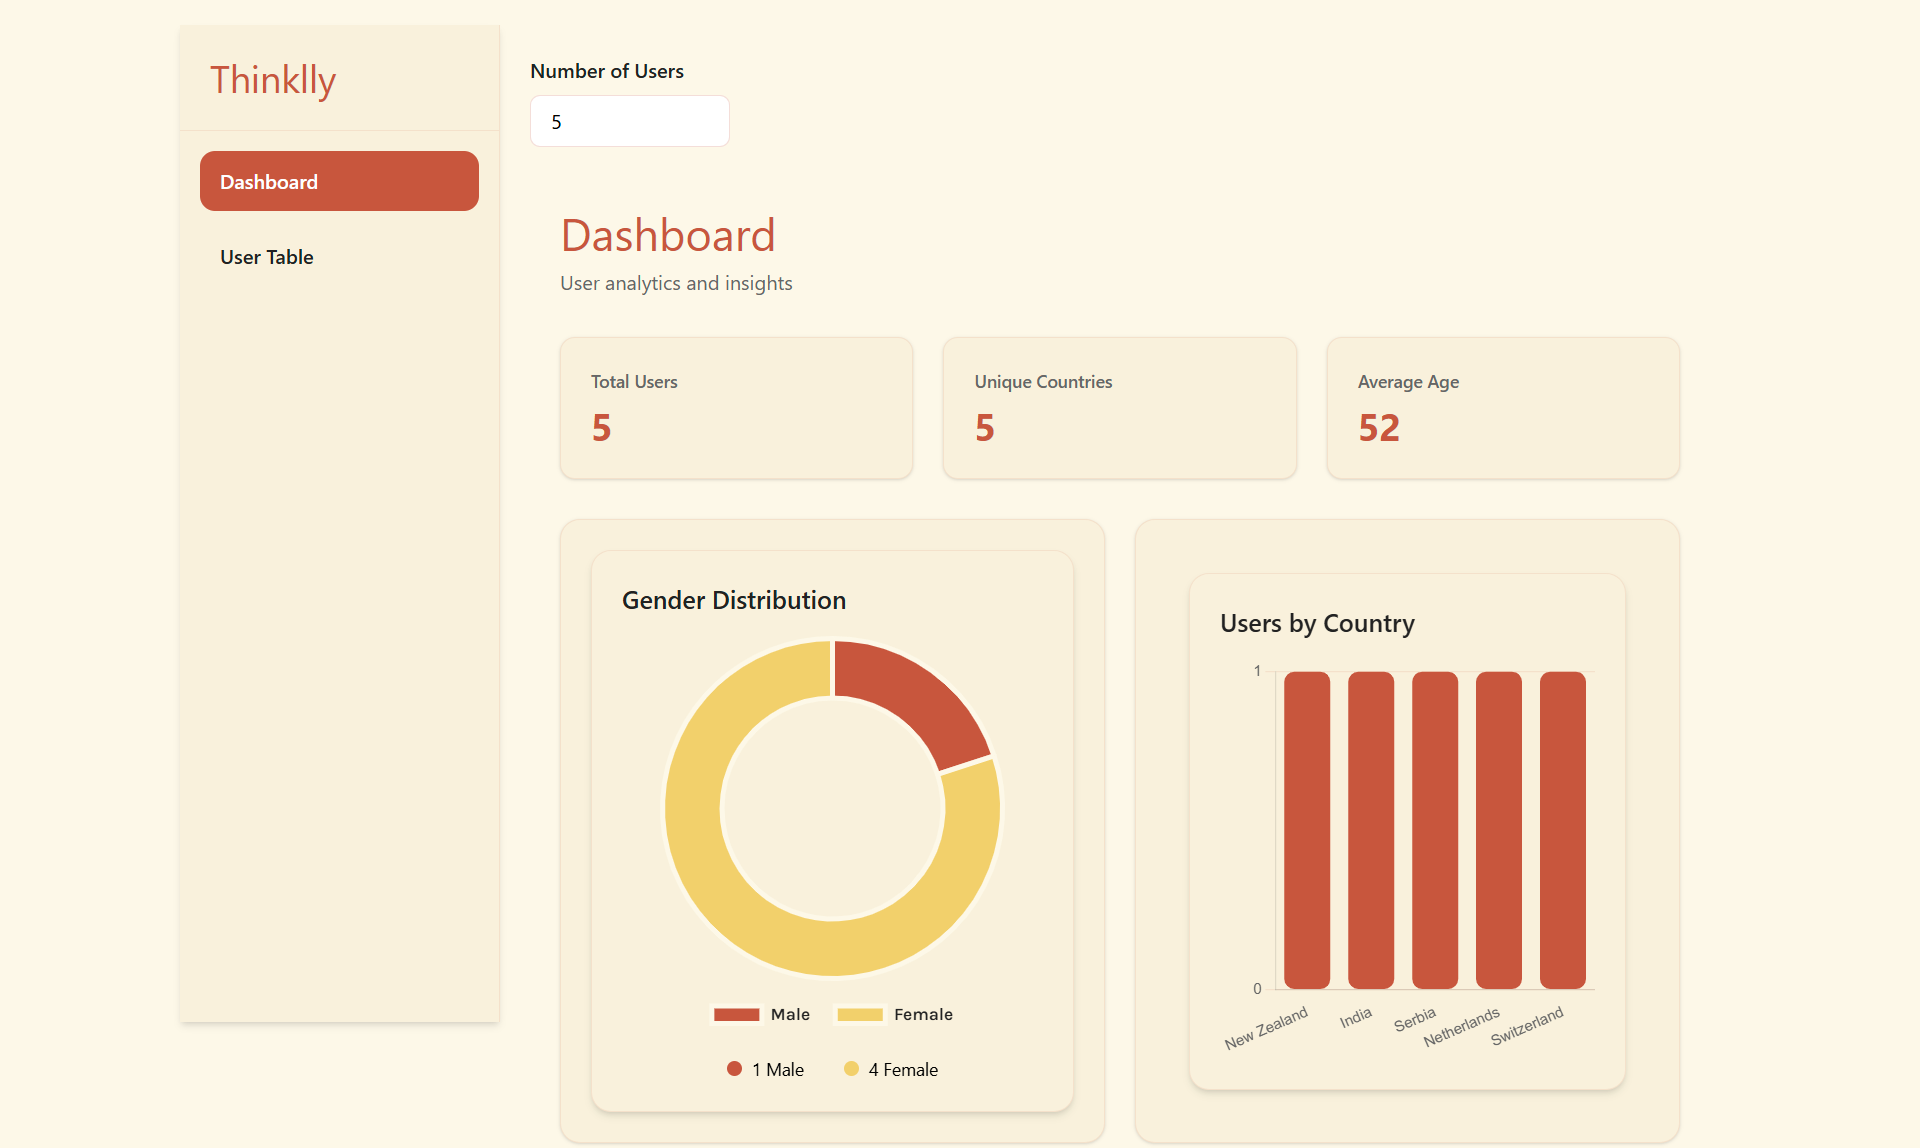
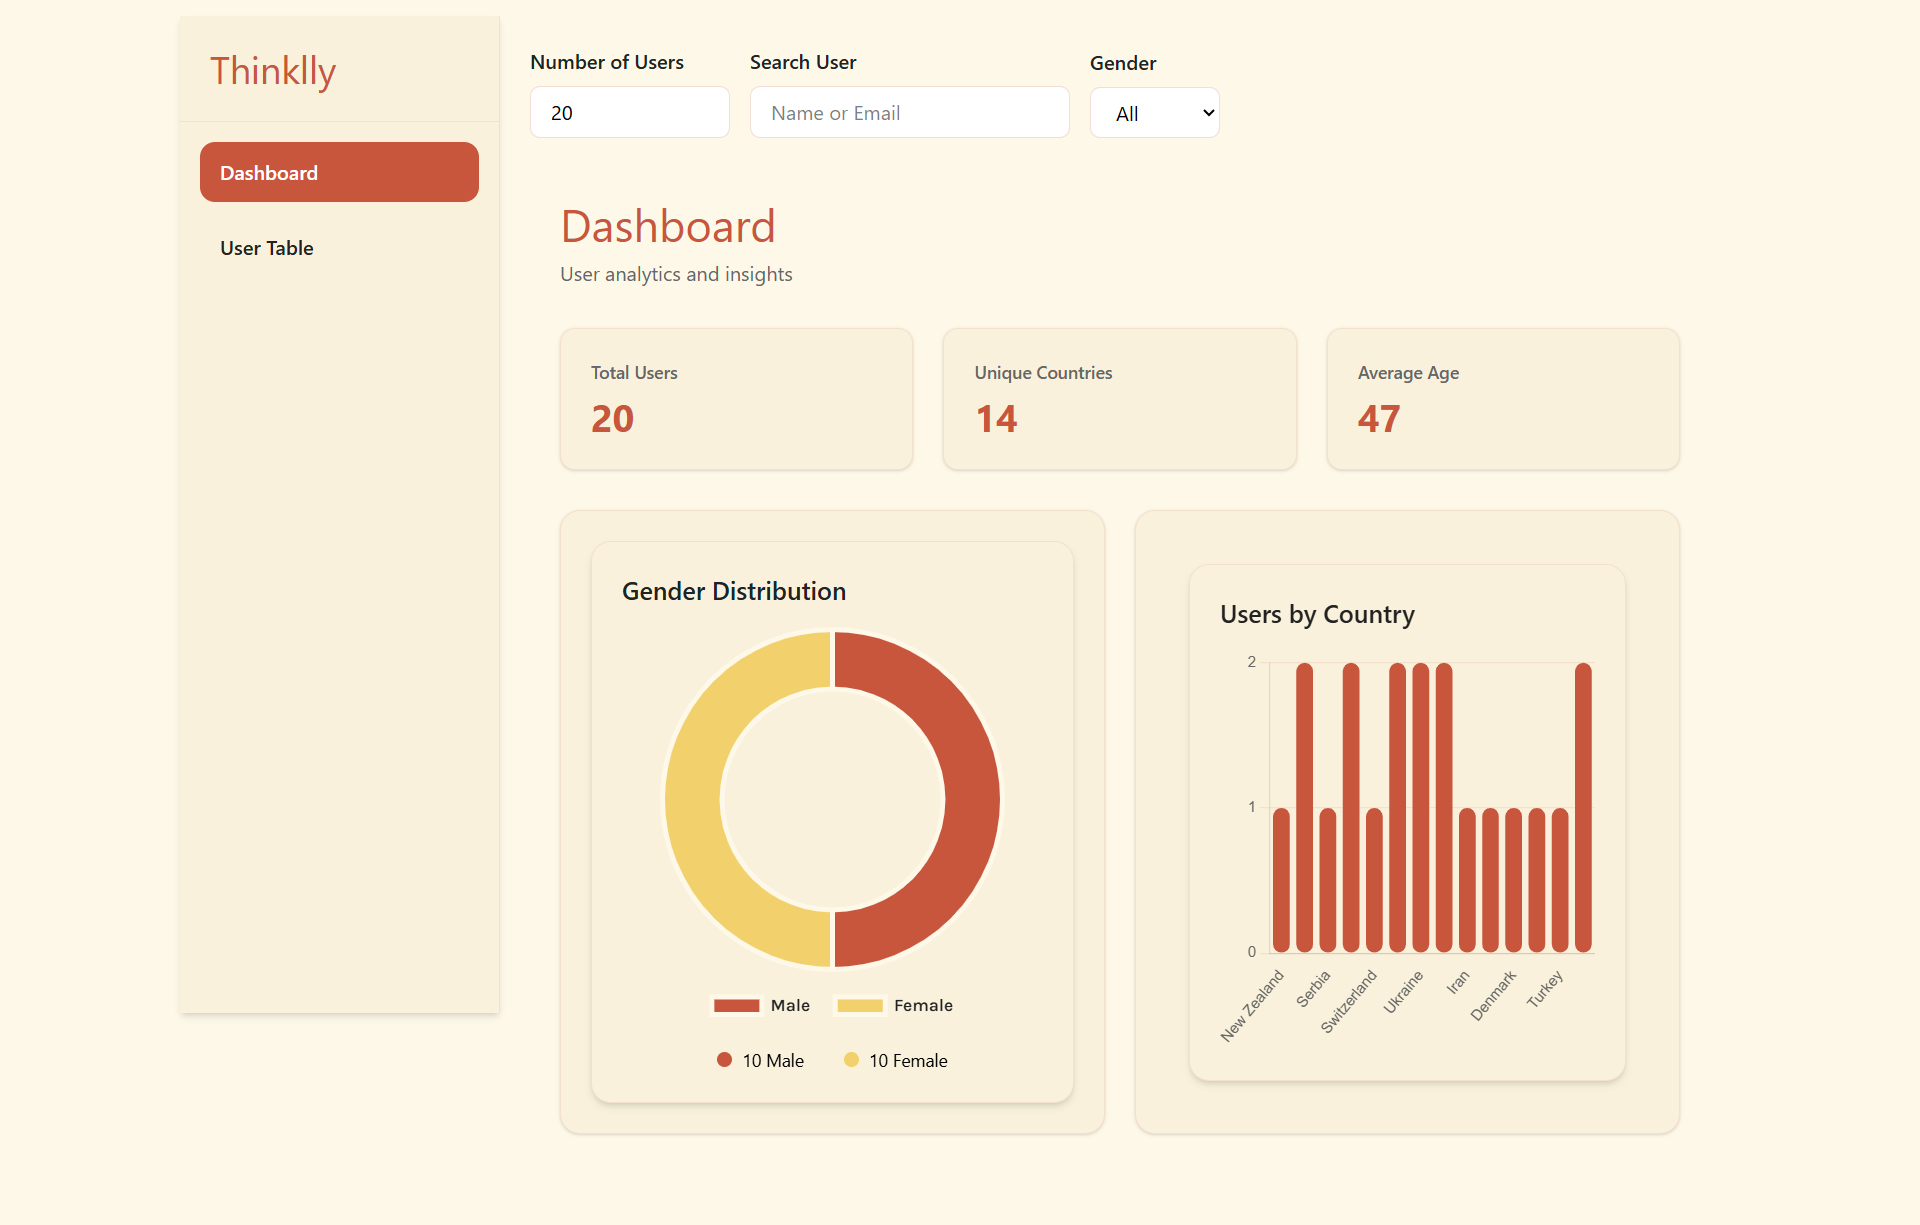
update landing page image reference from userTable.png to dataTable.png

diff --git a/src/pages/landingPage.jsx b/src/pages/landingPage.jsx
@@ -44,7 +44,7 @@ export function LandingPage() {
             title: "Data Table with Search & Filter",
             description:
                 "Responsive user table displaying fetched user data with support for searching, filtering, and user information management.",
-            image: "/userTable.png",
+            image: "/dataTable.png",
             route: "/dashboard",
         },
 